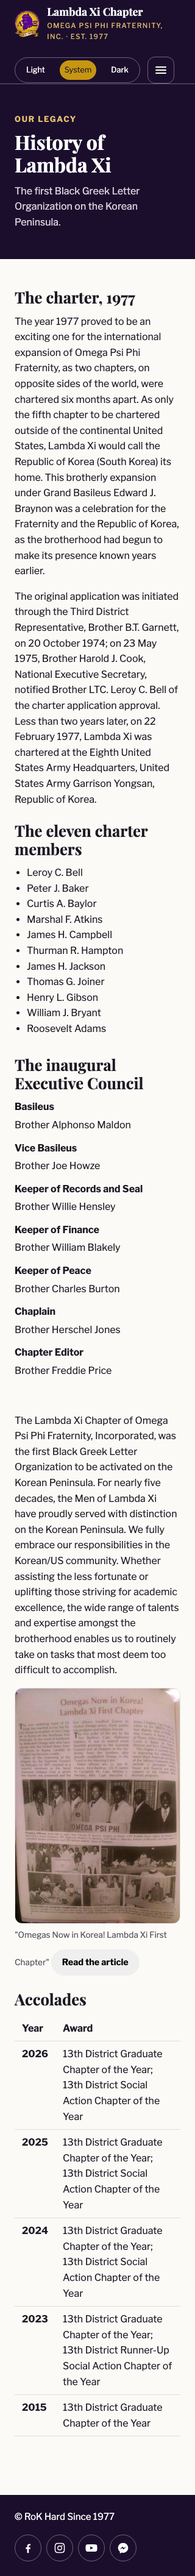
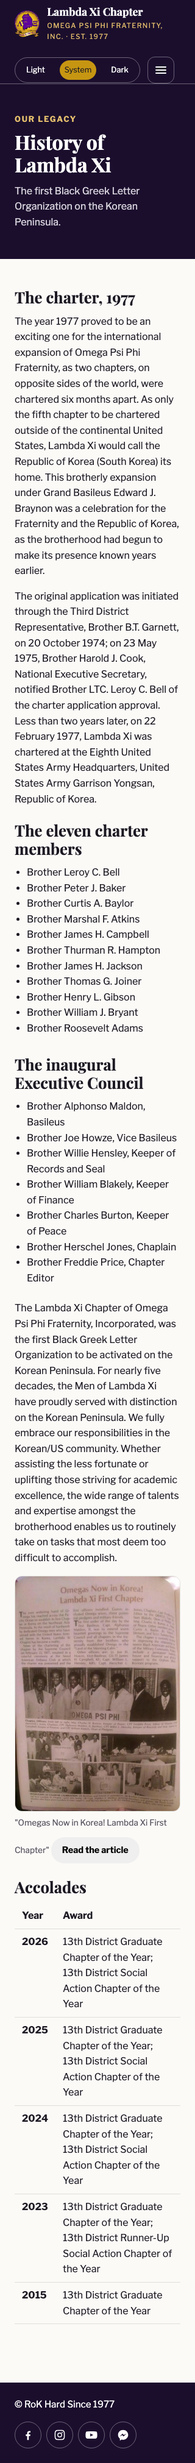
content: charter members and inaugural council as matching bulleted lists with the Brother prefix

Changed region(s): [[0.0, 0.0, 1.0, 0.9975], [0.0625, 0.9664, 0.2188, 0.9975], [0.6875, 0.0, 0.7188, 0.0312]]

diff --git a/docs/history/index.html b/docs/history/index.html
@@ -118,20 +118,30 @@
         <div class="prose">
           <h2 id="members">The eleven charter members</h2>
           <ul class="list-tight">
-          <li>Leroy C. Bell</li><li>Peter J. Baker</li><li>Curtis A. Baylor</li><li>Marshal F. Atkins</li><li>James H. Campbell</li><li>Thurman R. Hampton</li><li>James H. Jackson</li><li>Thomas G. Joiner</li><li>Henry L. Gibson</li><li>William J. Bryant</li><li>Roosevelt Adams</li>
-        </ul>
+            <li>Brother Leroy C. Bell</li>
+            <li>Brother Peter J. Baker</li>
+            <li>Brother Curtis A. Baylor</li>
+            <li>Brother Marshal F. Atkins</li>
+            <li>Brother James H. Campbell</li>
+            <li>Brother Thurman R. Hampton</li>
+            <li>Brother James H. Jackson</li>
+            <li>Brother Thomas G. Joiner</li>
+            <li>Brother Henry L. Gibson</li>
+            <li>Brother William J. Bryant</li>
+            <li>Brother Roosevelt Adams</li>
+          </ul>
         </div>
         <div class="prose">
           <h2 id="council">The inaugural Executive Council</h2>
-          <dl class="details">
-          <dt>Basileus</dt><dd>Brother Alphonso Maldon</dd>
-          <dt>Vice Basileus</dt><dd>Brother Joe Howze</dd>
-          <dt>Keeper of Records and Seal</dt><dd>Brother Willie Hensley</dd>
-          <dt>Keeper of Finance</dt><dd>Brother William Blakely</dd>
-          <dt>Keeper of Peace</dt><dd>Brother Charles Burton</dd>
-          <dt>Chaplain</dt><dd>Brother Herschel Jones</dd>
-          <dt>Chapter Editor</dt><dd>Brother Freddie Price</dd>
-        </dl>
+          <ul class="list-tight">
+            <li>Brother Alphonso Maldon, Basileus</li>
+            <li>Brother Joe Howze, Vice Basileus</li>
+            <li>Brother Willie Hensley, Keeper of Records and Seal</li>
+            <li>Brother William Blakely, Keeper of Finance</li>
+            <li>Brother Charles Burton, Keeper of Peace</li>
+            <li>Brother Herschel Jones, Chaplain</li>
+            <li>Brother Freddie Price, Chapter Editor</li>
+          </ul>
         </div>
       </div>
 

diff --git a/history-of-lambda-xi/mock/history-of-lambda-xi-mock.html b/history-of-lambda-xi/mock/history-of-lambda-xi-mock.html
@@ -117,20 +117,30 @@
         <div class="prose">
           <h2 id="members">The eleven charter members</h2>
           <ul class="list-tight">
-          <li>Leroy C. Bell</li><li>Peter J. Baker</li><li>Curtis A. Baylor</li><li>Marshal F. Atkins</li><li>James H. Campbell</li><li>Thurman R. Hampton</li><li>James H. Jackson</li><li>Thomas G. Joiner</li><li>Henry L. Gibson</li><li>William J. Bryant</li><li>Roosevelt Adams</li>
-        </ul>
+            <li>Brother Leroy C. Bell</li>
+            <li>Brother Peter J. Baker</li>
+            <li>Brother Curtis A. Baylor</li>
+            <li>Brother Marshal F. Atkins</li>
+            <li>Brother James H. Campbell</li>
+            <li>Brother Thurman R. Hampton</li>
+            <li>Brother James H. Jackson</li>
+            <li>Brother Thomas G. Joiner</li>
+            <li>Brother Henry L. Gibson</li>
+            <li>Brother William J. Bryant</li>
+            <li>Brother Roosevelt Adams</li>
+          </ul>
         </div>
         <div class="prose">
           <h2 id="council">The inaugural Executive Council</h2>
-          <dl class="details">
-          <dt>Basileus</dt><dd>Brother Alphonso Maldon</dd>
-          <dt>Vice Basileus</dt><dd>Brother Joe Howze</dd>
-          <dt>Keeper of Records and Seal</dt><dd>Brother Willie Hensley</dd>
-          <dt>Keeper of Finance</dt><dd>Brother William Blakely</dd>
-          <dt>Keeper of Peace</dt><dd>Brother Charles Burton</dd>
-          <dt>Chaplain</dt><dd>Brother Herschel Jones</dd>
-          <dt>Chapter Editor</dt><dd>Brother Freddie Price</dd>
-        </dl>
+          <ul class="list-tight">
+            <li>Brother Alphonso Maldon, Basileus</li>
+            <li>Brother Joe Howze, Vice Basileus</li>
+            <li>Brother Willie Hensley, Keeper of Records and Seal</li>
+            <li>Brother William Blakely, Keeper of Finance</li>
+            <li>Brother Charles Burton, Keeper of Peace</li>
+            <li>Brother Herschel Jones, Chaplain</li>
+            <li>Brother Freddie Price, Chapter Editor</li>
+          </ul>
         </div>
       </div>
 

diff --git a/merged/history-of-lambda-xi.html b/merged/history-of-lambda-xi.html
@@ -117,20 +117,30 @@
         <div class="prose">
           <h2 id="members">The eleven charter members</h2>
           <ul class="list-tight">
-          <li>Leroy C. Bell</li><li>Peter J. Baker</li><li>Curtis A. Baylor</li><li>Marshal F. Atkins</li><li>James H. Campbell</li><li>Thurman R. Hampton</li><li>James H. Jackson</li><li>Thomas G. Joiner</li><li>Henry L. Gibson</li><li>William J. Bryant</li><li>Roosevelt Adams</li>
-        </ul>
+            <li>Brother Leroy C. Bell</li>
+            <li>Brother Peter J. Baker</li>
+            <li>Brother Curtis A. Baylor</li>
+            <li>Brother Marshal F. Atkins</li>
+            <li>Brother James H. Campbell</li>
+            <li>Brother Thurman R. Hampton</li>
+            <li>Brother James H. Jackson</li>
+            <li>Brother Thomas G. Joiner</li>
+            <li>Brother Henry L. Gibson</li>
+            <li>Brother William J. Bryant</li>
+            <li>Brother Roosevelt Adams</li>
+          </ul>
         </div>
         <div class="prose">
           <h2 id="council">The inaugural Executive Council</h2>
-          <dl class="details">
-          <dt>Basileus</dt><dd>Brother Alphonso Maldon</dd>
-          <dt>Vice Basileus</dt><dd>Brother Joe Howze</dd>
-          <dt>Keeper of Records and Seal</dt><dd>Brother Willie Hensley</dd>
-          <dt>Keeper of Finance</dt><dd>Brother William Blakely</dd>
-          <dt>Keeper of Peace</dt><dd>Brother Charles Burton</dd>
-          <dt>Chaplain</dt><dd>Brother Herschel Jones</dd>
-          <dt>Chapter Editor</dt><dd>Brother Freddie Price</dd>
-        </dl>
+          <ul class="list-tight">
+            <li>Brother Alphonso Maldon, Basileus</li>
+            <li>Brother Joe Howze, Vice Basileus</li>
+            <li>Brother Willie Hensley, Keeper of Records and Seal</li>
+            <li>Brother William Blakely, Keeper of Finance</li>
+            <li>Brother Charles Burton, Keeper of Peace</li>
+            <li>Brother Herschel Jones, Chaplain</li>
+            <li>Brother Freddie Price, Chapter Editor</li>
+          </ul>
         </div>
       </div>
 

diff --git a/tooling/mock-src/pages/history.html b/tooling/mock-src/pages/history.html
@@ -30,20 +30,30 @@
         <div class="prose">
           <h2 id="members">The eleven charter members</h2>
           <ul class="list-tight">
-          <li>Leroy C. Bell</li><li>Peter J. Baker</li><li>Curtis A. Baylor</li><li>Marshal F. Atkins</li><li>James H. Campbell</li><li>Thurman R. Hampton</li><li>James H. Jackson</li><li>Thomas G. Joiner</li><li>Henry L. Gibson</li><li>William J. Bryant</li><li>Roosevelt Adams</li>
-        </ul>
+            <li>Brother Leroy C. Bell</li>
+            <li>Brother Peter J. Baker</li>
+            <li>Brother Curtis A. Baylor</li>
+            <li>Brother Marshal F. Atkins</li>
+            <li>Brother James H. Campbell</li>
+            <li>Brother Thurman R. Hampton</li>
+            <li>Brother James H. Jackson</li>
+            <li>Brother Thomas G. Joiner</li>
+            <li>Brother Henry L. Gibson</li>
+            <li>Brother William J. Bryant</li>
+            <li>Brother Roosevelt Adams</li>
+          </ul>
         </div>
         <div class="prose">
           <h2 id="council">The inaugural Executive Council</h2>
-          <dl class="details">
-          <dt>Basileus</dt><dd>Brother Alphonso Maldon</dd>
-          <dt>Vice Basileus</dt><dd>Brother Joe Howze</dd>
-          <dt>Keeper of Records and Seal</dt><dd>Brother Willie Hensley</dd>
-          <dt>Keeper of Finance</dt><dd>Brother William Blakely</dd>
-          <dt>Keeper of Peace</dt><dd>Brother Charles Burton</dd>
-          <dt>Chaplain</dt><dd>Brother Herschel Jones</dd>
-          <dt>Chapter Editor</dt><dd>Brother Freddie Price</dd>
-        </dl>
+          <ul class="list-tight">
+            <li>Brother Alphonso Maldon, Basileus</li>
+            <li>Brother Joe Howze, Vice Basileus</li>
+            <li>Brother Willie Hensley, Keeper of Records and Seal</li>
+            <li>Brother William Blakely, Keeper of Finance</li>
+            <li>Brother Charles Burton, Keeper of Peace</li>
+            <li>Brother Herschel Jones, Chaplain</li>
+            <li>Brother Freddie Price, Chapter Editor</li>
+          </ul>
         </div>
       </div>
 
